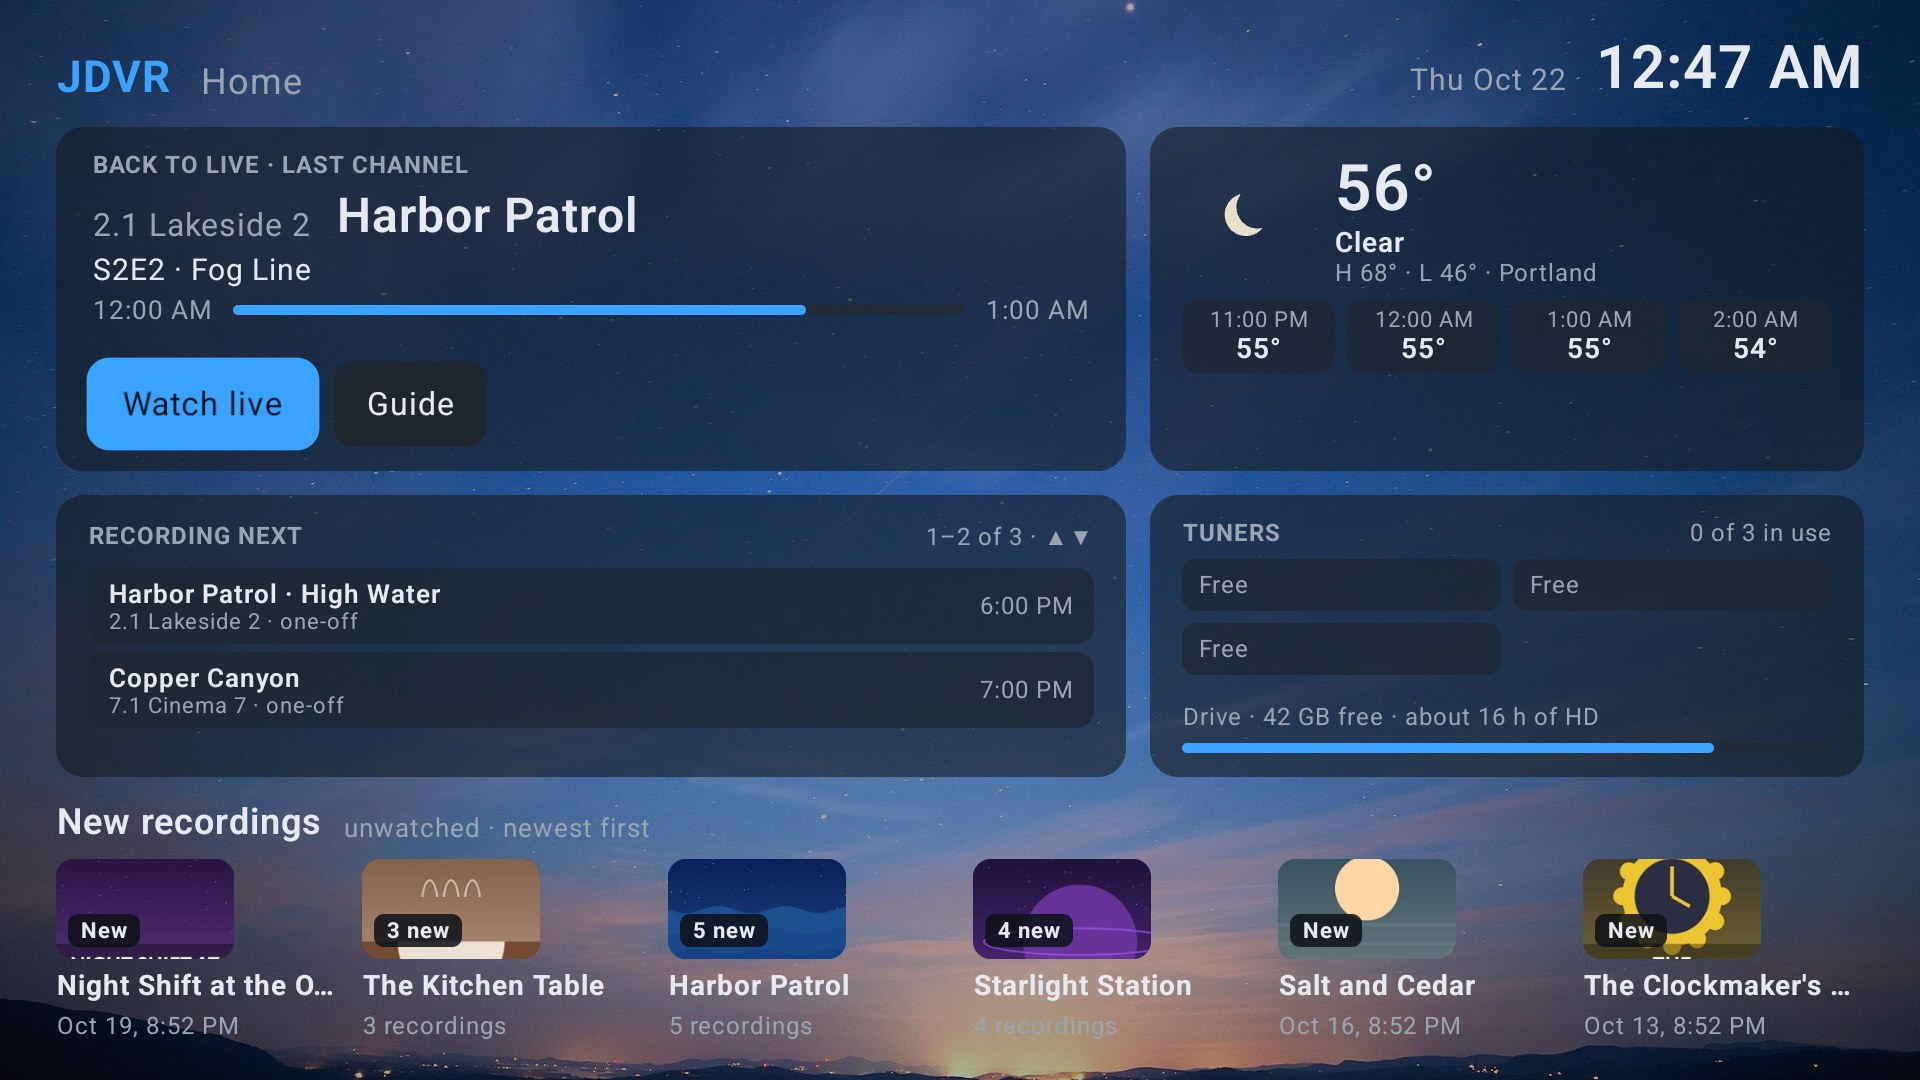
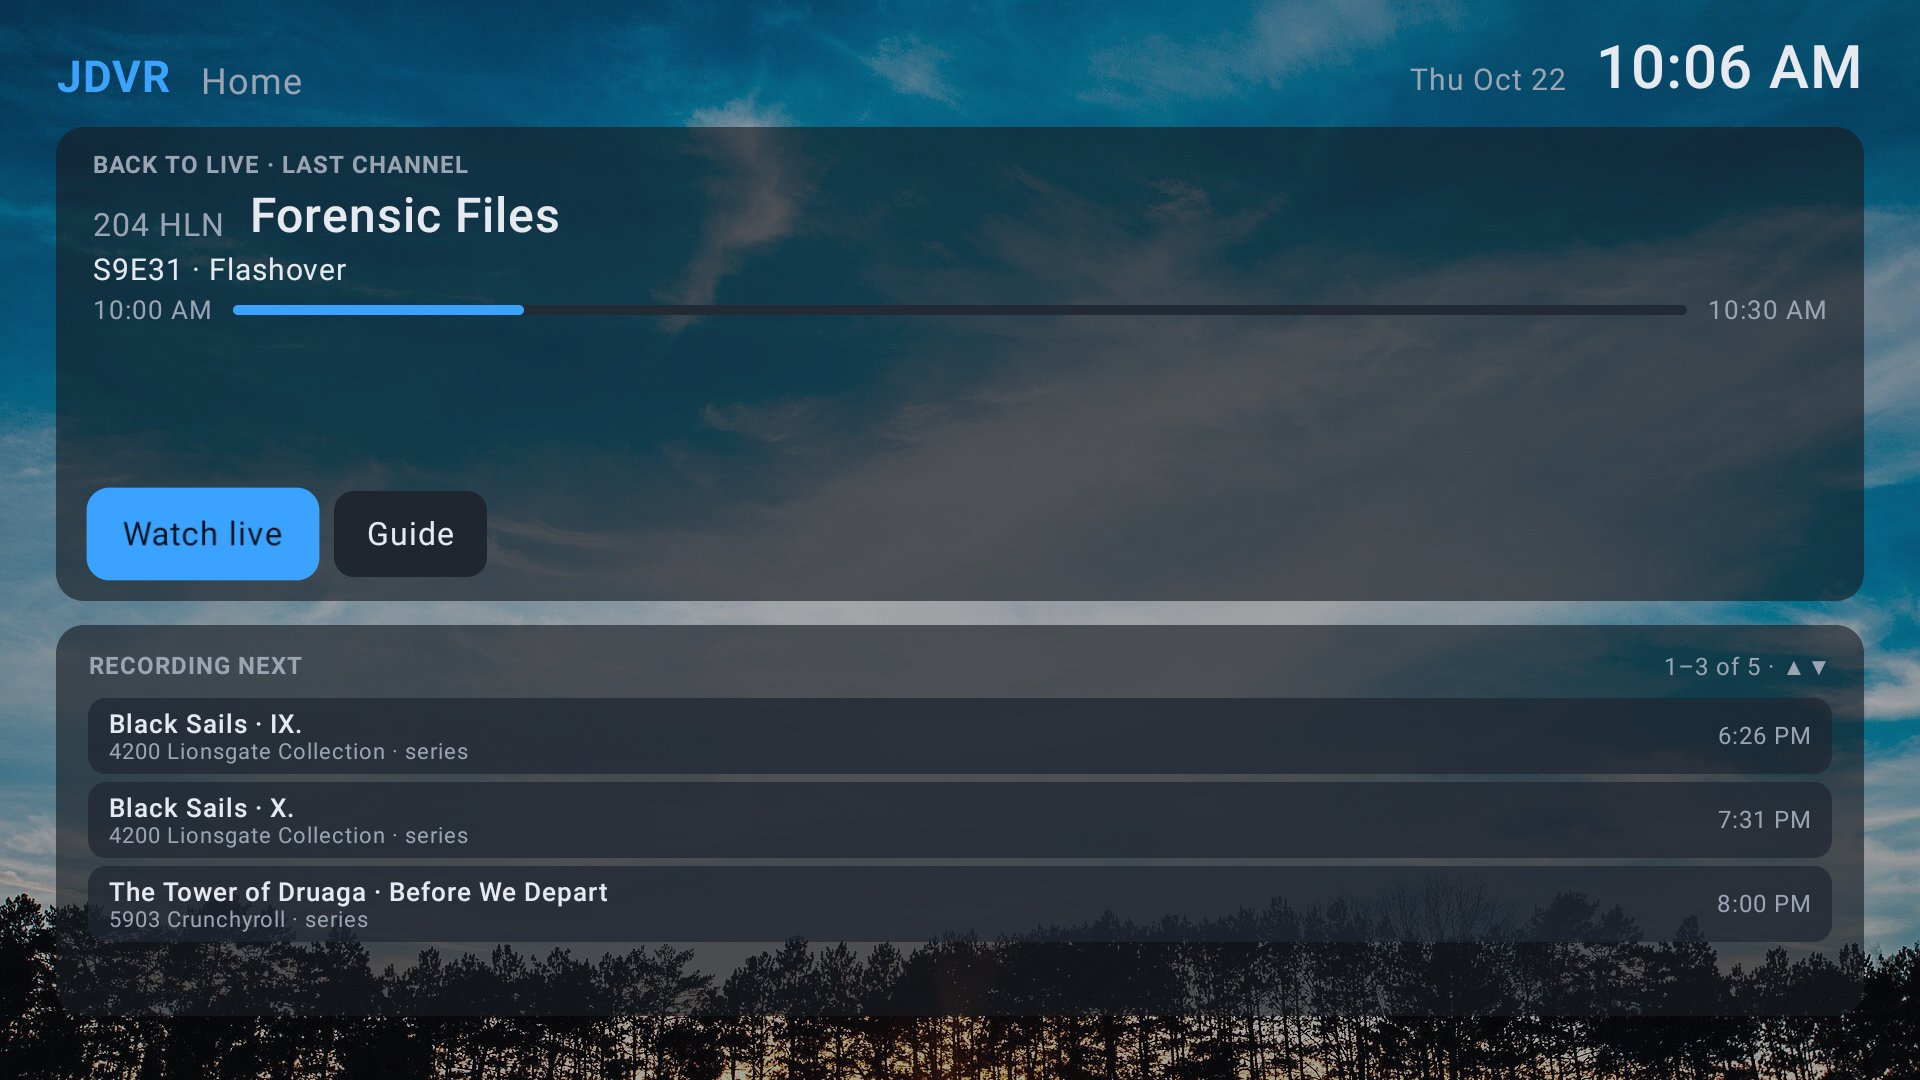
Screenshots from a real server, TV shows only, in Midnight and MythTV Blue
Replaces the made-up demo library (its artwork was generated). Movie screens
and the player shot are dropped.

diff --git a/README.md b/README.md
@@ -57,24 +57,18 @@ repository, below.)
 
 ## Screenshots
 
-Two of the themes: *Ode to Emby's Apple* (light) and *Midnight* (dark). The shows, films and
-channels are a made-up demo library, with artwork drawn for it.
+Taken on a real server, TV shows only, in two of the themes: *Midnight* (the default) and
+*MythTV Blue*.
 
-| | Ode to Emby's Apple | Midnight |
+| | Midnight | MythTV Blue |
 |---|---|---|
-| Home | ![Home, Apple theme](screenshots/apple-1-home.jpg) | ![Home, Midnight theme](screenshots/midnight-1-home.jpg) |
-| Menu | ![Menu, Apple theme](screenshots/apple-2-menu.jpg) | ![Menu, Midnight theme](screenshots/midnight-2-menu.jpg) |
-| Guide | ![Guide, Apple theme](screenshots/apple-3-guide.jpg) | ![Guide, Midnight theme](screenshots/midnight-3-guide.jpg) |
-| Recorded Shows | ![Recorded Shows, Apple theme](screenshots/apple-4-recorded-shows.jpg) | ![Recorded Shows, Midnight theme](screenshots/midnight-4-recorded-shows.jpg) |
-| A show's recordings | ![Show episodes, Apple theme](screenshots/apple-extra-show-episodes.jpg) | ![Show episodes, Midnight theme](screenshots/midnight-extra-show-episodes.jpg) |
-| TV episode details | ![TV details, Apple theme](screenshots/apple-6-tv-details.jpg) | ![TV details, Midnight theme](screenshots/midnight-6-tv-details.jpg) |
-| Movies Archive | ![Movies Archive, Apple theme](screenshots/apple-5-movies-archive.jpg) | ![Movies Archive, Midnight theme](screenshots/midnight-5-movies-archive.jpg) |
-| Movie details | ![Movie details, Apple theme](screenshots/apple-7-movie-details.jpg) | ![Movie details, Midnight theme](screenshots/midnight-7-movie-details.jpg) |
-
-Playing a recording: commercial breaks marked in orange on the seek bar (intros and recaps show
-in purple), with a skip prompt.
-
-![Player with commercial marks](screenshots/apple-8-player-commercial-marks.jpg)
+| Home | ![Home, Midnight theme](screenshots/midnight-1-home.jpg) | ![Home, MythTV Blue theme](screenshots/mythtv-1-home.jpg) |
+| Home, a library's row | ![Home library row, Midnight theme](screenshots/midnight-1b-home-rows.jpg) | ![Home library row, MythTV Blue theme](screenshots/mythtv-1b-home-rows.jpg) |
+| Menu | ![Menu, Midnight theme](screenshots/midnight-2-menu.jpg) | ![Menu, MythTV Blue theme](screenshots/mythtv-2-menu.jpg) |
+| Guide | ![Guide, Midnight theme](screenshots/midnight-3-guide.jpg) | ![Guide, MythTV Blue theme](screenshots/mythtv-3-guide.jpg) |
+| TV library | ![TV library, Midnight theme](screenshots/midnight-4-tv-library.jpg) | ![TV library, MythTV Blue theme](screenshots/mythtv-4-tv-library.jpg) |
+| A show's recordings | ![Show episodes, Midnight theme](screenshots/midnight-5-show-episodes.jpg) | ![Show episodes, MythTV Blue theme](screenshots/mythtv-5-show-episodes.jpg) |
+| TV episode details | ![TV details, Midnight theme](screenshots/midnight-6-tv-details.jpg) | ![TV details, MythTV Blue theme](screenshots/mythtv-6-tv-details.jpg) |
 
 Build: `JAVA_HOME=~/opt/jdk21 ANDROID_HOME=~/Android/Sdk ./gradlew :app:assembleDebug`
 (installs as `com.mackandall.jdvr.debug`, beside Wholphin).
